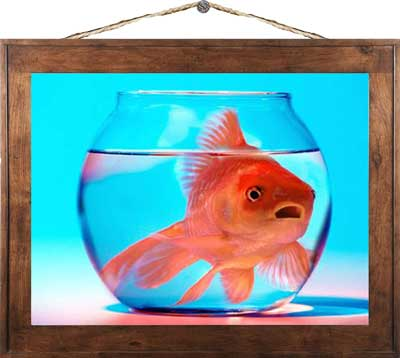
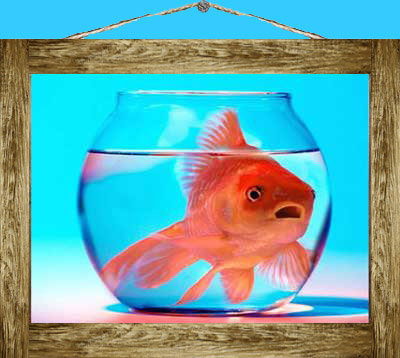
changes

diff --git a/css/general.css b/css/general.css
@@ -17,109 +17,98 @@ html {
 	-ms-text-size-adjust: 100%;
 	-webkit-text-size-adjust: 100%;
 	text-size-adjust: 100%;
-    backgroundcolor: orange;
     font-size: 100%;
     font-family: Georgia, Times, sans-serif;
+    
+    background-image: url(../images/fishbowl.jpg);
+    background-size: 1.3rem;
 }
 
-body {
-    background-size: 1.5rem; 
+hr  {
+    border: solid 16px #33CCFF;
+    margin-top: -.5rem;
+    margin-bottom: -.1rem    
+}
+
+body { 
     margin-right: 2rem;
     margin-left: 2rem;
+    background-color: #33CCFF;
 }
 
 header {
+    background-image: url(../images/bannerbar.jpg);
+    background-size: 30rem;
+    background-position:center;
+    
     overflow: hidden;
-    background-color: orange;
-    margin-top: 1.5rem;
     margin-right: -2rem;
     margin-left: -2rem;
+    height: 5rem
 }
 
 .logo {
-    height: 3rem;
+    height: 6rem;
     width: auto;
     margin-right: 1rem;
     float: right;
+    margin: -6.3rem .5rem;
 }
 
 article {
     margin: 0;
     padding: 0 5%;
     overflow: hidden;
-    background-color: white;
 }
 
-h1 {
-    font-family: Georgia, Times, serif;
+h1  {
+    font-family: Century Gothic, Arial Rounded MT, sans-serif; 
     font-weight: normal;
-    font-size: 4rem;
-    line-height: 4rem;
-    margin: 4rem 0;
-    color: orange;
-    text-shadow: .15rem .15rem .05em rgba(60, 0, 0, .4);
-    text-decoration: underline;
-}
-    
-figure {
-    margin: 0 auto 1.5rem;
-    width: 100%;
-    margin-top: 4rem;
-    margin-bottom: 4rem;
+    font-size: 3.5rem;
+    text-align: center;
+    color: #FF6633;
+    text-shadow: 0rem 0rem .05em rgba(150, 0, 0, 1);
 }
 
-.dropcap:first-letter {
-    font-family: Georgia, Times serif;
-    font-size: 4.5rem;
-    font-weight: bold;
-    float: left;
-    margin: -.6rem 0.5rem -.7rem 0;
-    color: orange;
-    text-shadow: .15rem .15rem .05em rgba(60, 0, 0, .4);
-    
+img     {
+    width: 100% 
 }
 
-    p   {
-    font-family: Helvetica, sans-serif;
-     text-indent: 15px;
-}
-    
-figure + p  {
-    font-size: 1.2rem;
-    text-indent: -1px;
+
+dl  {
+    line-height: 3rem;
+    text-align:center;
 }
 
-.subheader   {
-    font-size: 1.5rem;
-    background-color: orange;
-    color: white;
-}
-
-details  {
-    font-weight: bold;
+.one  {
+    background-color: white;
+    margin-bottom: 1rem;
+    border-radius: 1.25rem;
 }
 
 h5  {
-    font-size: 1.2rem;
-    color: sienna;
-    text-shadow: .15rem .15rem .05em rgba(40, 0, 0, .1);
+    font-family: Century Gothic, Arial Rounded MT, sans-serif;
+    font-size: 1.3rem;
+    font-weight: normal;
     margin-left: 1rem;
+    color: cyan;
+    text-shadow: .15rem .15rem .05em rgba(0, 0, 0, 1);
+    
 }
+
+
+
+
+
+
 
 footer  {
+      background-image: url(../images/wood.jpg);
+    background-size: 10rem;
+    
     overflow: hidden;
-    background-color: orange;
-    margin-bottom: 1.5rem;
     margin-right: -2rem;
     margin-left: -2rem;
+    height: 3rem
 }
 
-footer p {
-    font-weight: bold;
-    color: sienna
-}
-
-a   {
-    font-weight: normal;
-    color: sienna;
-}

diff --git a/index.html b/index.html
@@ -8,37 +8,26 @@
 </head>
 <body>
     
+    <hr>
+    
     <header>
-        <h5>facts about</h5><img src=images/goldfish.svg alt="goldfish logo" class="logo">
+        <h5>facts about</h5>
+        <img src=images/goldfish.svg alt="goldfish logo" class="logo">
     </header>
         
 		<h1>Goldfish</h1>
 	
     <article>
-      
-    <details> 
-            <summary>Scientific Name</summary>
-            <p>Carrasius Auratus</p>
-    </details>
         
-    <details>
-            <summary>Type</summary>
-        <p>Cyprin</p>
-    </details>    
-        
-    <details>
-        <summary>Family</summary>
-        <p>Cypriniae</p>
-    </details>
-        
-    <details>
-        <summary>Origin</summary>
-        <p>China and parts of Siberia</p>
-    </details>
-        
-     <figure>
         <img src="images/picture-frame.jpg" alt="gold fish in a bowl">
-    </figure>
+        
+        <dl>
+            <dt class="one"><em>Carrasius Auratus</em></dt>
+        
+            <dt class="one">Cypriniae Family</dt>
+        
+            <dt class="one">China/Siberia</dt>
+    </dl>
         
     <p class="dropcap">Goldfish are peaceful schooling fish. They are messy and produce a lot of waste. Should have some type of extra aeration, as they have high oxygen requirements. Makes a great bottom scavenger. May up-root plants.</p>
         
@@ -102,6 +91,8 @@
     <footer>
         <p>More Goldfish Info: <a href="http://www.dogbreedinfo.com/fishfreshwateraquarium/goldfish.htm">Click Here</a></p>
     </footer>   
-               
+    
+    <hr>
+    
 </body>
 </html>
